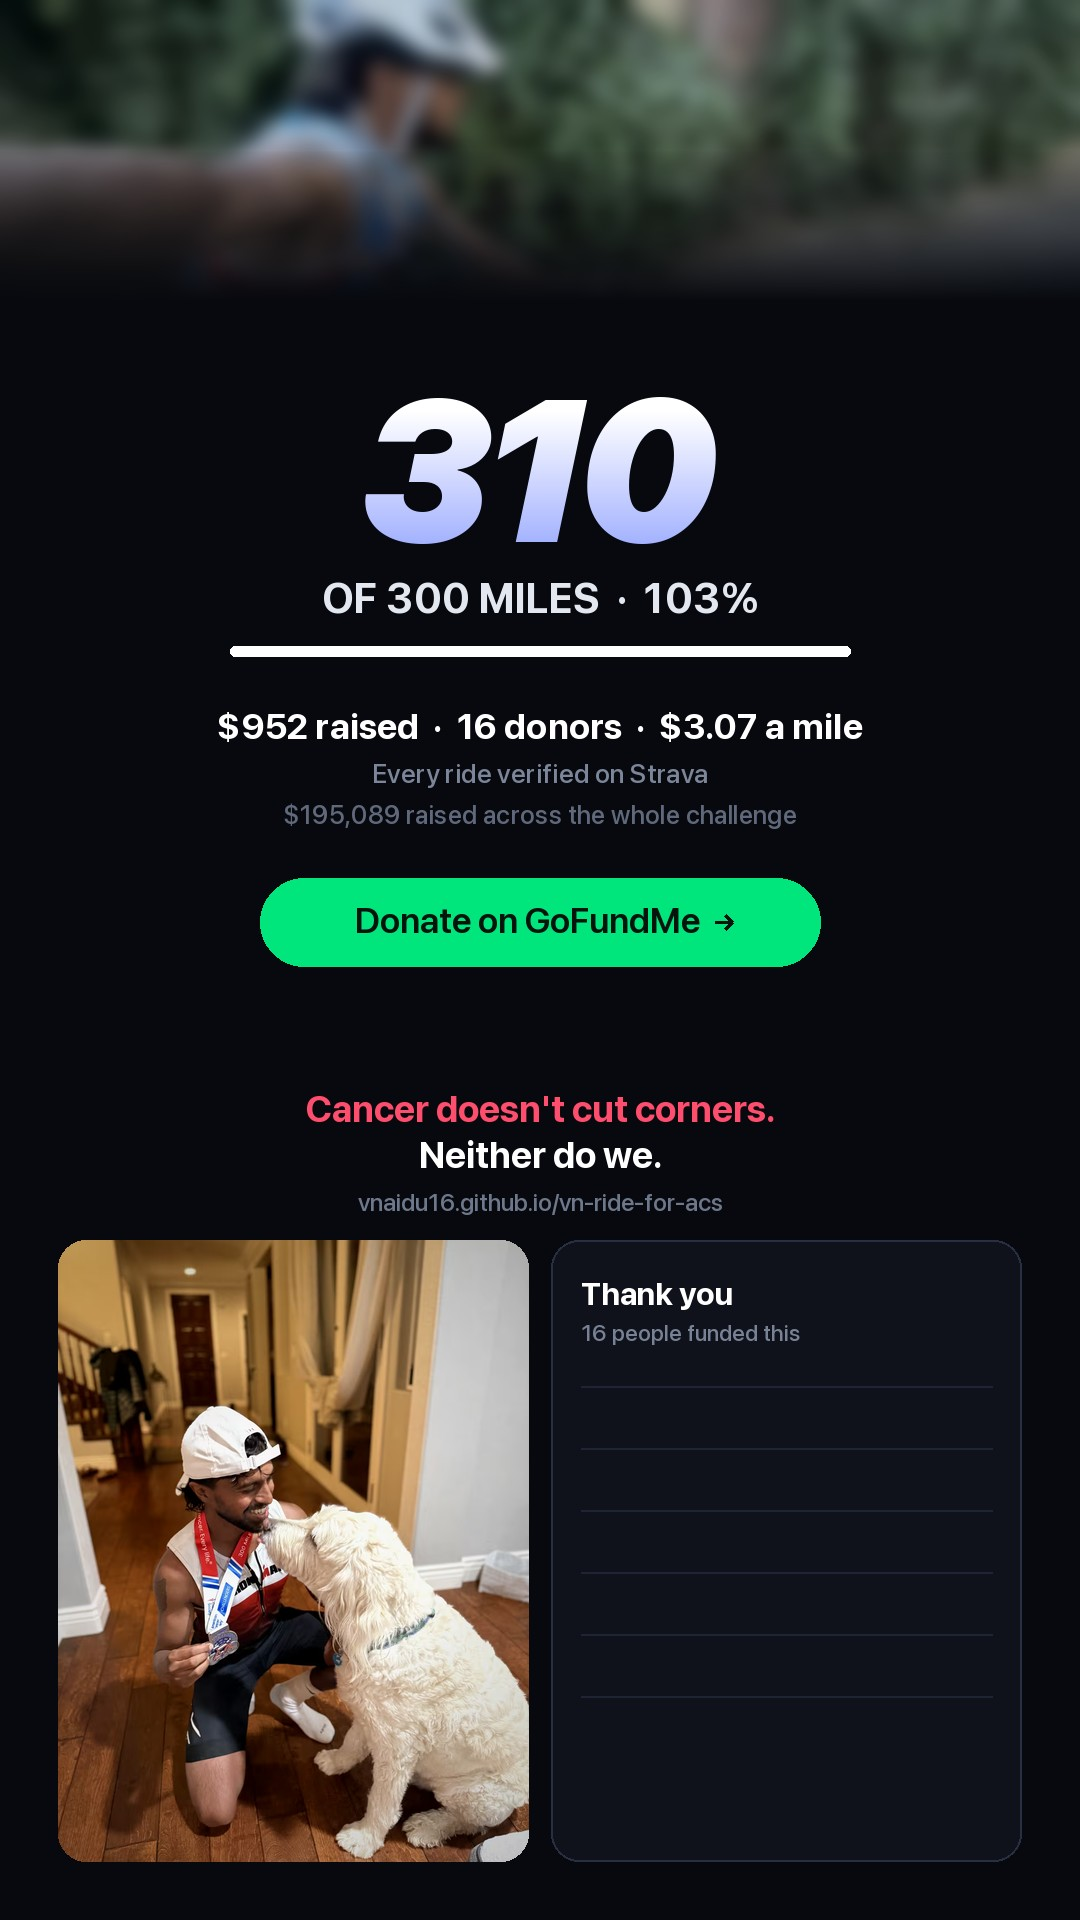
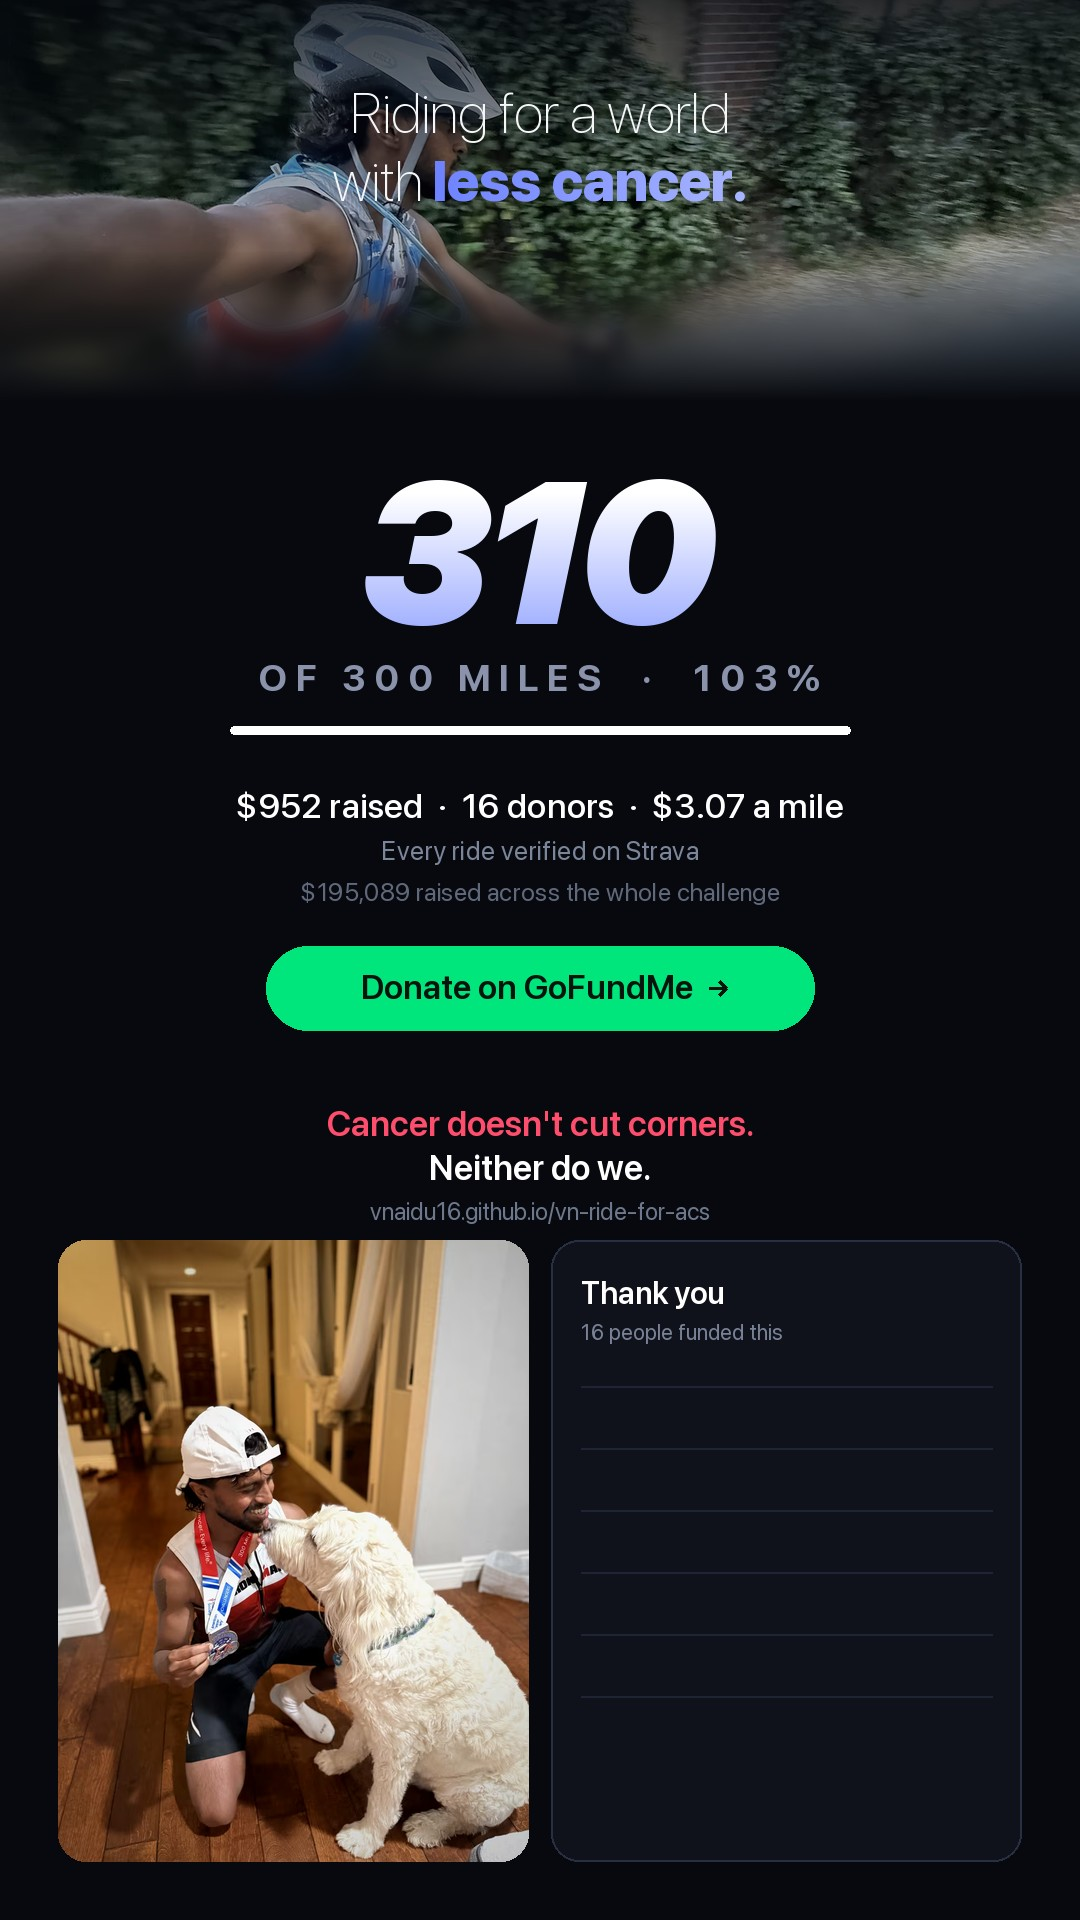
Story: graded blur, the site's headline, lighter weights
Blur is graded rather than flat: sharp at the top of the frame, easing in from
about halfway, full by the bottom. Three levels crossfaded down the height,
because a straight two way blend reads as a ghost through the middle. The band
is taller too, so more of the ride shows.

Headline added across the top in the treatment index.html actually uses: h1 at
weight 200 with the bold half filled by a #6d82ff to #a9b6ff gradient.

Weights come down a step throughout, and the miles line now takes .goal's own
colour and tracking, #8a93ab at 4px, instead of near white and tight. That was
the bulk of what read as heavy.

Claude-Session: https://claude.ai/code/session_01NH75BrgSUeWBYsvkeeFkNz

Changed region(s): [[0.0, 0.0, 1.0, 0.7188]]

diff --git a/tools/make_cards.py b/tools/make_cards.py
@@ -63,6 +63,40 @@ def av(size, weight=None):
     return font(AVENIR, size, AV_HEAVY if weight is None else weight)
 
 
+def graded_blur(im, soft=0.50, hard=0.74, mx=17):
+    """Sharp at the top, easing into full blur at the bottom, rather than one
+    flat blur over the whole thing. Three levels crossfaded down the frame: a
+    straight two way blend reads as a ghost through the middle."""
+    h = im.height
+    out = im.copy()
+    for lo, hi, radius in ((soft, hard + 0.10, mx * 0.42), (hard, 0.99, mx)):
+        layer = im.filter(ImageFilter.GaussianBlur(radius))
+        mask = Image.new("L", im.size, 0)
+        md = ImageDraw.Draw(mask)
+        for y in range(h):
+            t = (y / h - lo) / max(1e-6, hi - lo)
+            md.line([(0, y), (im.width, y)], fill=int(255 * min(1.0, max(0.0, t)) ** 1.1))
+        out = Image.composite(layer, out, mask)
+    return out
+
+
+def gradtext(base, x, y, text, fnt, c0, c1):
+    """Horizontal gradient inside the glyphs, the way h1 b is filled on the
+    site: #6d82ff to #a9b6ff, left to right."""
+    d = ImageDraw.Draw(base)
+    w = int(d.textlength(text, font=fnt)) + 4
+    h = int(fnt.size * 1.45)
+    lay = Image.new("L", (w, h), 0)
+    ImageDraw.Draw(lay).text((0, 0), text, font=fnt, fill=255)
+    grad = Image.new("RGB", (w, h))
+    gd = ImageDraw.Draw(grad)
+    for i in range(w):
+        t = i / max(1, w - 1)
+        gd.line([(i, 0), (i, h)], fill=tuple(round(c0[k] + (c1[k] - c0[k]) * t) for k in range(3)))
+    base.paste(grad, (int(x), int(y)), lay)
+    return w - 4
+
+
 def sfi(size, weight="Black Italic"):
     """The italic cut. index.html sets .miles italic at weight 900, so the big
     number has to be italic here too or it is simply a different typeface from
@@ -430,31 +464,49 @@ def pill(base, cx, y, w, h, label, fnt, bg, fg, arrow=True):
 def build_story(ride, medal, done, goal, rng, raised, money_goal, donors, allriders=0):
     W, H = 1080, 1920
     CX = W // 2
-    TOP_H, CARD_Y = 300, 1240
+    TOP_H, CARD_Y = 400, 1240
     base = Image.new("RGB", (W, H), (7, 9, 14))
 
     # Blurred, but still legibly a person on a bike. The old version blurred it
     # into grey mush and read like a mistake.
-    top = cover(ride, W, TOP_H, 0.32, 0.30).filter(ImageFilter.GaussianBlur(9))
-    top = ImageEnhance.Brightness(top).enhance(0.88)
+    top = graded_blur(cover(ride, W, TOP_H, 0.32, 0.26))
+    top = ImageEnhance.Brightness(top).enhance(0.93)
     base.paste(top, (0, 0))
+    cap = Image.new("L", (W, 260), 0)
+    cd0 = ImageDraw.Draw(cap)
+    for i in range(260):
+        cd0.line([(0, i), (W, i)], fill=int(200 * (1 - i / 260) ** 0.9))
+    base.paste(Image.new("RGB", (W, 260), (7, 9, 14)), (0, 0), cap)
     fade = Image.new("L", (W, 150), 0)
     fd = ImageDraw.Draw(fade)
     for i in range(150):
         fd.line([(0, i), (W, i)], fill=int(255 * (i / 150) ** 0.75))
     base.paste(Image.new("RGB", (W, 150), (7, 9, 14)), (0, TOP_H - 150), fade)
 
+    # The site's h1: weight 200, with the bold half filled by a blue gradient.
+    d = ImageDraw.Draw(base)
+    fl = sf(56, "Thin")
+    fb = sf(56, "Heavy")
+    l1 = "Riding for a world"
+    d.text((CX - d.textlength(l1, font=fl) / 2, 78), l1, font=fl, fill=(245, 246, 248))
+    w_with = d.textlength("with ", font=fl)
+    w_bold = d.textlength("less cancer.", font=fb)
+    x2 = CX - (w_with + w_bold) / 2
+    d.text((x2, 146), "with ", font=fl, fill=(245, 246, 248))
+    gradtext(base, x2 + w_with, 146, "less cancer.", fb, (109, 130, 255), (169, 182, 255))
+
     pct = done / goal
     num = str(int(round(done)))
     d = ImageDraw.Draw(base)
-    base, _ = milesnum(base, CX, 348, num, 200)
+    base, _ = milesnum(base, CX, 430, num, 200)
     d = ImageDraw.Draw(base)
-    ctext(d, CX, 572, "OF %d MILES  \u00b7  %d%%" % (goal, round(pct * 100)),
-          sf(42, "Bold"), (226, 231, 240), 0.5)
+    # .goal on the site: 700, letter-spacing 4px at 17px, #8a93ab
+    ctext(d, CX, 654, "OF %d MILES  \u00b7  %d%%" % (goal, round(pct * 100)),
+          sf(38, "Bold"), (138, 147, 171), 8.5)
 
     # A plain rounded track, sized to the type above it, instead of a skewed
     # slash floating on its own.
-    BW, BH, BY = 620, 10, 646
+    BW, BH, BY = 620, 8, 726
     d.rounded_rectangle([CX - BW / 2, BY, CX + BW / 2, BY + BH], radius=BH // 2,
                         fill=(32, 38, 54))
     fwid = int(BW * min(1.0, pct))
@@ -463,21 +515,21 @@ def build_story(ride, medal, done, goal, rng, raised, money_goal, donors, allrid
                             radius=BH // 2, fill=(255, 255, 255))
 
     permile = ("$%.2f a mile" % (raised / done)) if done else ""
-    ctext(d, CX, 704, "$%s raised  \u00b7  %d donors  \u00b7  %s"
-          % (format(raised, ","), donors, permile), sf(36, "Bold"), (255, 255, 255), 0.2)
-    ctext(d, CX, 756, "Every ride verified on Strava", sf(27, "Medium"), (124, 134, 154), 0.4)
+    ctext(d, CX, 784, "$%s raised  \u00b7  %d donors  \u00b7  %s"
+          % (format(raised, ","), donors, permile), sf(35, "Medium"), (255, 255, 255), 0.2)
+    ctext(d, CX, 834, "Every ride verified on Strava", sf(26, "Regular"), (124, 134, 154), 0.4)
     if allriders:
-        ctext(d, CX, 798, "$%s raised across the whole challenge" % format(allriders, ","),
-              sf(26, "Medium"), (96, 105, 124), 0.4)
+        ctext(d, CX, 876, "$%s raised across the whole challenge" % format(allriders, ","),
+              sf(25, "Regular"), (96, 105, 124), 0.4)
 
-    base = pill(base, CX, 878, 560, 88, "Donate on GoFundMe", sf(36, "Semibold"),
+    base = pill(base, CX, 946, 548, 84, "Donate on GoFundMe", sf(34, "Semibold"),
                 (0, 229, 124), (6, 20, 13))
 
     # 978 to 1064 stays clear for the link sticker.
 
-    ctext(d, CX, 1086, "Cancer doesn't cut corners.", sf(37, "Bold"), (255, 77, 109))
-    ctext(d, CX, 1132, "Neither do we.", sf(37, "Bold"), (255, 255, 255))
-    ctext(d, CX, 1186, "vnaidu16.github.io/vn-ride-for-acs", sf(25, "Medium"), (110, 120, 140))
+    ctext(d, CX, 1102, "Cancer doesn't cut corners.", sf(35, "Semibold"), (255, 77, 109))
+    ctext(d, CX, 1146, "Neither do we.", sf(35, "Semibold"), (255, 255, 255))
+    ctext(d, CX, 1196, "vnaidu16.github.io/vn-ride-for-acs", sf(24, "Regular"), (110, 120, 140))
 
     # Two cards at the foot. Half the width is almost exactly the finisher
     # photo's own aspect ratio, so it is barely cropped at all.
@@ -493,8 +545,8 @@ def build_story(ride, medal, done, goal, rng, raised, money_goal, donors, allrid
     card = Image.new("RGB", (CWd, CH), (15, 18, 27))
     cd = ImageDraw.Draw(card)
     cd.rounded_rectangle([0, 0, CWd - 1, CH - 1], radius=rad, outline=(40, 47, 66), width=2)
-    cd.text((30, 34), "Thank you", font=sf(32, "Bold"), fill=(255, 255, 255))
-    cd.text((30, 78), "%d people funded this" % donors, font=sf(23, "Medium"),
+    cd.text((30, 34), "Thank you", font=sf(31, "Semibold"), fill=(255, 255, 255))
+    cd.text((30, 78), "%d people funded this" % donors, font=sf(22, "Regular"),
             fill=(120, 130, 150))
     # Faint rules so the space reads as a list waiting to be filled rather than
     # an empty box. V tags the donors over these.
